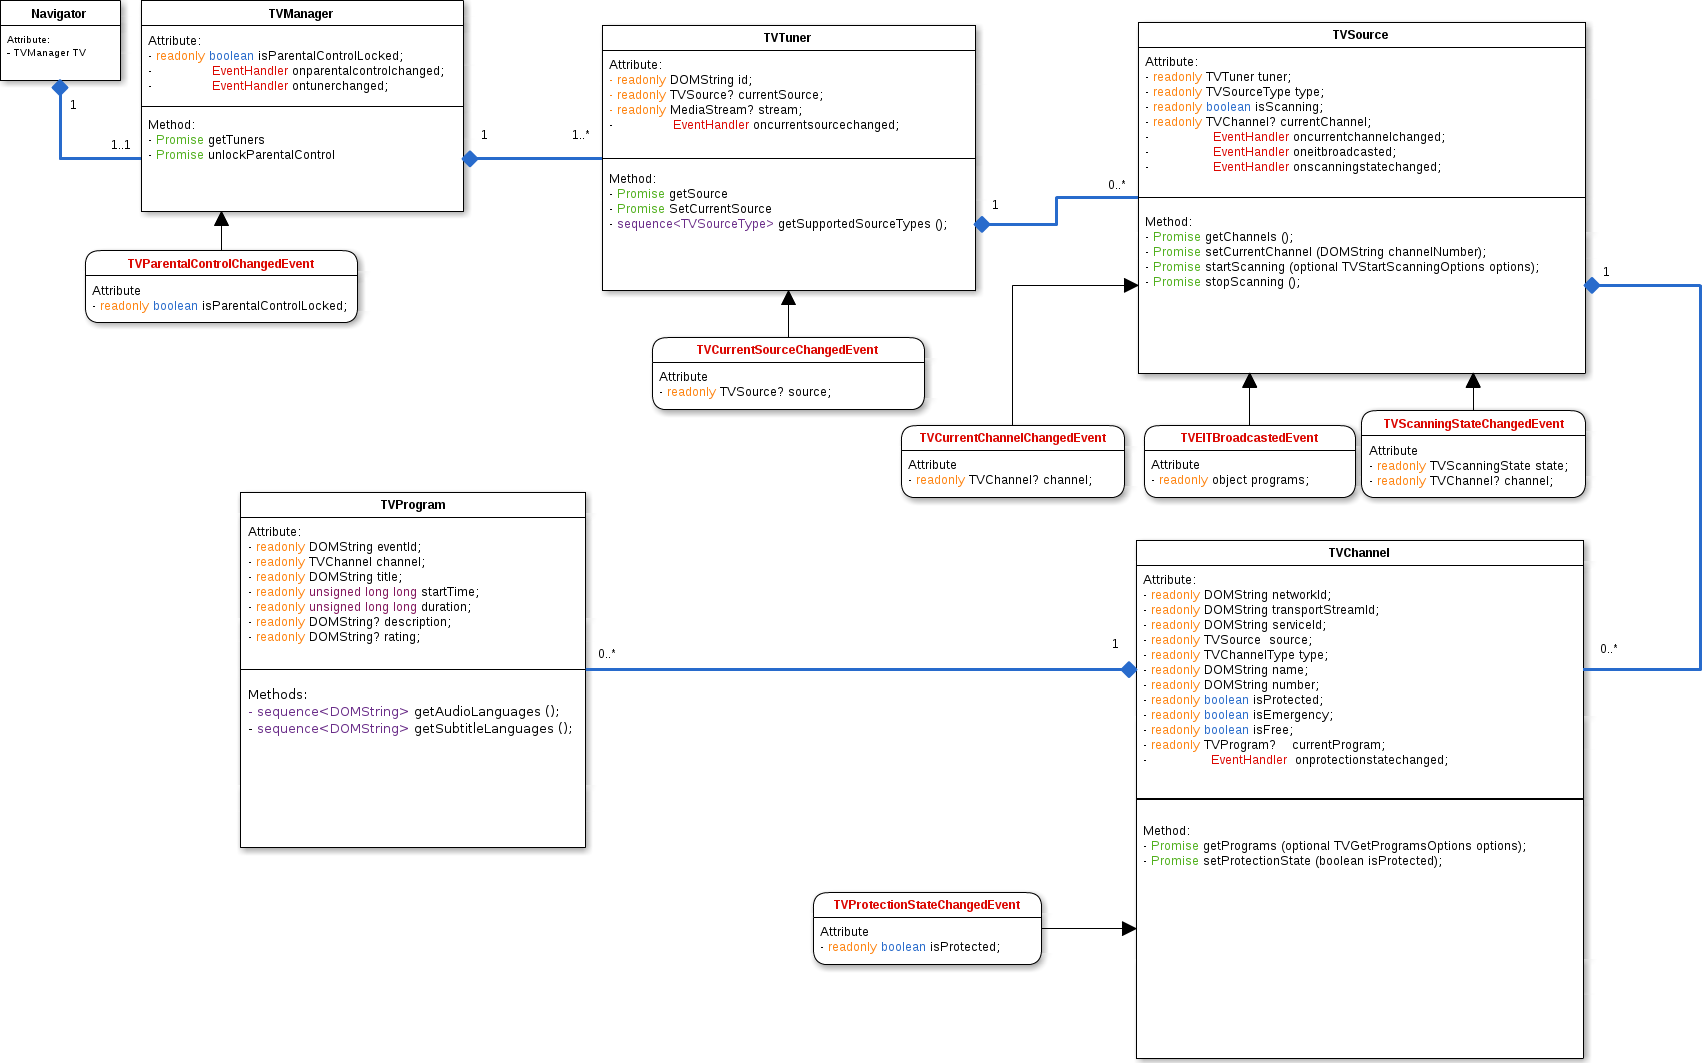
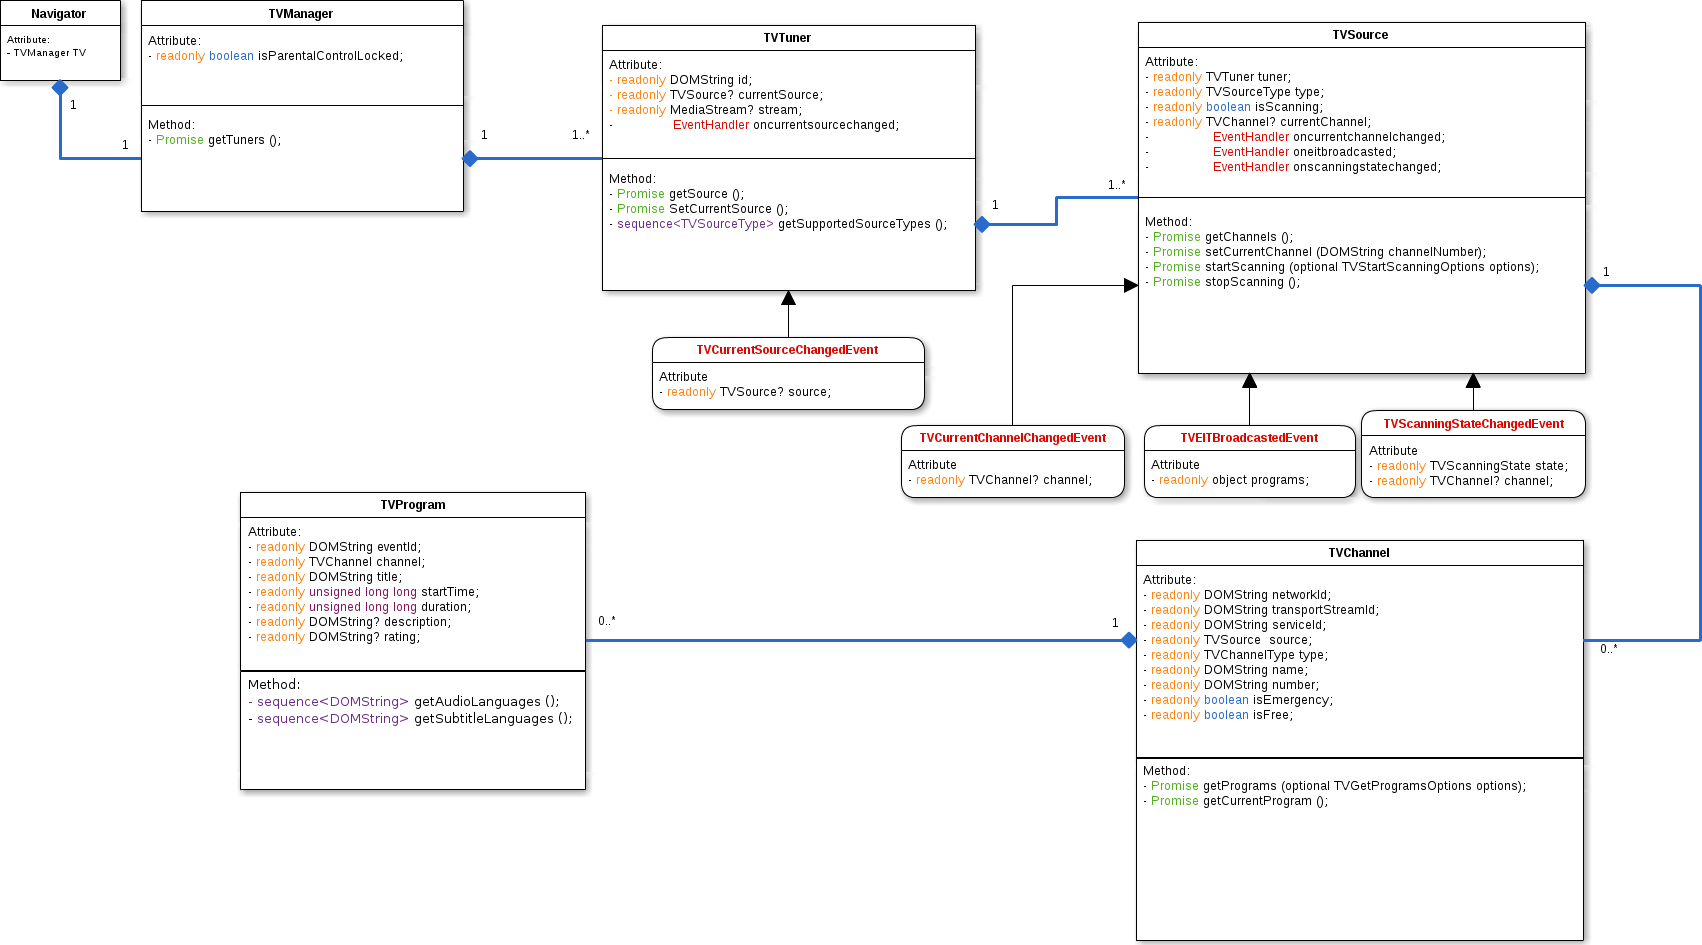
Temporarily move parental control and channel protection out from current release.

diff --git a/index.html b/index.html
@@ -283,14 +283,6 @@ Style guide to contributors:
               // currently configured TV source of the TV tuner.
               currentSource.getChannels().then(function onsuccess(channels) {
                 curChannelsOfTuners[tunerId] = channels;
-
-                channels.forEach(function setEventHandler(channel) {
-                  // Set the 'onprotectionstatechanged' event handler.
-                  channel.onprotectionstatechanged = function onprotectionstatechanged(event) {
-                    alert("The current protection state of TV channel: " + channel.name +
-                          " is configured to: " + event.isProtected);
-                  };
-                });
               }, function onerror(error) {
                 alert(error);
               });
@@ -507,71 +499,6 @@ Style guide to contributors:
           });
         </pre>
 
-        <p>
-          The following example shows how to unlock the TV parental control.
-        </p>
-
-        <pre class="example highlight">
-          // Retrieve all the currently available TV tuners.
-          navigator.tv.getTuners().then(function onsuccess(tuners) {
-            if (tuners.length == 0) {
-              return;
-            }
-
-            // Just use the first TV tuner.
-            var tuner = tuners[0];
-            var currentSource = tuner.currentSource;
-
-            if (!currentSource) {
-              return;
-            }
-
-            // This event handler will be triggered when the TV channel is tuned.
-            currentSource.oncurrentchannelchanged = function oncurrentchannelchanged(event) {
-              var changedCurrentChannel = event.channel;
-
-              if (navigator.tv.isParentalControlLocked &&
-                  changedCurrentChannel.isProtected) {
-                // If the TV parental control is locked and the currently tuned
-                // TV channel is protected, the |tuner.stream|'s media tracks
-                // will be disabled (i.e. black screen). The UA can then pop up
-                // a prompt to ask the user to enter the password to unlock it.
-                alert("Parental control is locked. Please enter the password.");
-
-                // Unlock the TV parental control which will be applied system-wisely.
-                navigator.tv.unlockParentalControl().then(function onsuccess() {
-                  alert("Parental control is unlocked until the next reboot.");
-                }, function onerror(error) {
-                  alert(error);
-                });
-              }
-            };
-
-            // Retrieve all the currently available TV channels in the currently
-            // configured TV source of the TV tuner.
-            currentSource.getChannels().then(function onsuccess(channels) {
-              if (channels.length == 0) {
-                return;
-              }
-
-              // Just use the first TV channel.
-              var channel = channels[0];
-              var channelNumber = channel.number;
-
-              // Tune the currently streamed TV channel based on the TV channel
-              // number.
-              currentSource.setCurrentChannel(channelNumber).then(function onsuccess() {
-                alert("Succeeded to tune the currently streamed TV channel.");
-              }, function onerror(error) {
-                alert(error);
-              });
-            }, function onerror(error) {
-              alert(error);
-            });
-          }, function onerror(error) {
-            alert(error);
-          });
-        </pre>
       </section>
     </section>
     
@@ -657,34 +584,6 @@ Style guide to contributors:
             that will be used to notify the caller about the result of the
             operation, which is an array of <a>TVTuner</a> elements.
           </dd>
-
-        <dt>Promise unlockParentalControl ()</dt>
-          <dd>
-            This method makes a request to unlock the TV parental control by
-            popping up a prompt to ask the user to input the correct password.
-            Once the TV parental control is unlocked, it won't be locked until
-            the next reboot. It returns a new <code>Promise</code> that will be
-            used to notify the caller about the result of the operation.
-          </dd>
-
-        <dt>readonly attribute boolean isParentalControlLocked</dt>
-          <dd>
-            MUST return the current lock state of the TV parental control, which
-            is system-widely applied to the TV device (i.e., once the parental
-            control is unlocked, all the protected TV channels/programs will be
-            unlocked until the next reboot).
-          </dd>
-
-        <dt class="no-docs">
-          attribute EventHandler onparentalcontrolchanged
-        </dt>
-          <dd>
-            Handles the <code>onparentalcontrolchanged</code> event of type
-            <a>TVParentalControlChangedEvent</a>, fired when the method
-            <a><code>unlockParentalControl</code></a> is invoked to unlock the
-            TV parental control.
-          </dd>
-
       </dl>
 
       <section>
@@ -727,71 +626,6 @@ Style guide to contributors:
           </ol>
         </ol>
 
-        <p>
-          The <dfn><code>unlockParentalControl</code></dfn> method when invoked
-          MUST run the following steps:
-        </p>
-        <ol>
-          <li>
-            Let <var>promise</var> be a new <code>Promise</code> object and
-            <var>resolver</var> be its associated <code>resolver</code>.
-          </li>
-          <li>
-            Return <var>promise</var> to the caller.
-          </li>
-          <li>
-            Make a request to the TV device to unlock the TV parental control.
-            The <a class="internalDFN" href="#dfn-user-agent">user agent</a> has
-            to pop up a prompt to ask the user to input the password to unlock
-            the TV parental control.
-          </li>
-          <li>
-            If an <var>error</var> occurs invoke <em>resolver</em>'s <a
-            class="internalDFN" href="#dfn-reject-algorithm">reject algorithm</a>
-            with <em>error</em> as the <code>value</code> argument.
-          </li>
-          <li>
-            When the request has been successfully completed:
-          </li>
-          <ol>
-            <li>
-              Invoke <em>resolver</em>'s <a
-              class="internalDFN" href="#dfn-fulfill-algorithm"> fulfill algorithm</a>
-              without assigning a value to the <code>value</code> argument.
-            </li>
-          </ol>
-        </ol>
-
-      </section>
-
-      <section>
-        <h2>Event handlers</h2>
-        <p>The following are the <a class="internalDFN"
-        href="#dfn-eventhandler">event handlers</a> (and their corresponding <a
-        class="internalDFN" href="#dfn-eventtypes">event types</a>) that MUST be
-        supported as attributes by the <a>TVManager</a> object.
-
-        <table class="simple">
-          <thead>
-            <tr>
-              <th>Event handler</th>
-              <th>Event name</th>
-              <th>Event type</th>
-              <th>Short description</th>
-            </tr>
-          </thead>
-          <tbody>
-            <tr>
-              <td><strong><code>onparentalcontrolchanged</code></strong></td>
-              <td><code><dfn id="dfn-change-event">parentalcontrolchanged</dfn></code></td>
-              <td><a><code>TVParentalControlChangedEvent</code></a></td>
-              <td>
-                Handles the information of the changed state of the TV parental
-                control.
-              </td>
-            </tr>
-          </tbody>
-        </table>
       </section>
 
     </section>
@@ -1324,19 +1158,13 @@ Style guide to contributors:
             </dl>
           </dd>
 
-        <dt>Promise setProtectionState ()</dt>
+        <dt>Promise getCurrentProgram ()</dt>
           <dd>
-            This method makes a request to configure the current protection
-            state of the TV channel by the <code>isProtected</code> parameter.
-            It returns a new <code>Promise</code> that will be used to notify
-            the caller about the result of the operation.
-            <dl class='parameters'>
-              <dt>boolean isProtected</dt>
-                <dd>
-                  Specifies the new protection state for configuring the current
-                  protection state of the TV channel.
-                </dd>
-            </dl>
+            This method makes a request to retrieve the current TV program
+            available in the TV channel. It returns a new <code>Promise</code>
+            that will be used to notify the caller about the result of the
+            operation, which is a <a>TVProgram</a> element that belongs to the
+            TV channel.
           </dd>
 
         <dt>readonly attribute DOMString networkId</dt>
@@ -1386,13 +1214,6 @@ Style guide to contributors:
             <code>"12-2"</code>... etc.
           </dd>
 
-        <dt>readonly attribute boolean isProtected</dt>
-          <dd>
-            MUST return the current protection state of the TV channel, which
-            decides whether or not the TV channel is protected from being
-            watched by the children.
-          </dd>
-
         <dt>readonly attribute boolean isEmergency</dt>
           <dd>
             MUST indicate whether the TV channel is for the emergency purpose.
@@ -1401,23 +1222,6 @@ Style guide to contributors:
         <dt>readonly attribute boolean isFree</dt>
           <dd>
             MUST indicate whether the TV channel is free to watch.
-          </dd>
-
-        <dt>readonly attribute TVProgram? currentProgram</dt>
-          <dd>
-            MUST return the TV program that is currently broadcasted by the TV
-            channel. MUST return <em>null</em> if the TV tuner is not streaming
-            any data.
-          </dd>
-
-        <dt class="no-docs">
-          attribute EventHandler onprotectionstatechanged
-        </dt>
-          <dd>
-            Handles the <code>onprotectionstatechanged</code> event of type
-            <a>TVProtectionStateChangedEvent</a>, fired when the method
-            <a><code>setProtectionState</code></a> is invoked to configure the
-            current protection state of the TV channel.
           </dd>
 
       </dl>
@@ -1464,7 +1268,7 @@ Style guide to contributors:
         </ol>
 
         <p>
-          The <dfn><code>setProtectionState</code></dfn> method when invoked
+          The <dfn><code>getCurrentProgram</code></dfn> method when invoked
           MUST run the following steps:
         </p>
         <ol>
@@ -1476,9 +1280,8 @@ Style guide to contributors:
             Return <var>promise</var> to the caller.
           </li>
           <li>
-            Make a request to the TV channel to configure the current protection
-            state of the TV channel according to the <code>isProtected</code>
-            parameter.
+            Make a request to the TV channel to retrieve all the current TV
+            program available in the TV channel.
           </li>
           <li>
             If an <var>error</var> occurs invoke <em>resolver</em>'s <a
@@ -1490,45 +1293,16 @@ Style guide to contributors:
           </li>
           <ol>
             <li>
+              Let <var>program</var> be the retrieved <a>TVProgram</a> element.
+            </li>
+            <li>
               Invoke <em>resolver</em>'s <a
               class="internalDFN" href="#dfn-fulfill-algorithm"> fulfill algorithm</a>
-              without assigning a value to the <code>value</code> argument.
+              with <em>program</em> as the <code>value</code> argument.
             </li>
           </ol>
         </ol>
 
-      </section>
-
-      <section>
-        <h2>Event handlers</h2>
-        <p>The following are the <a class="internalDFN"
-        href="#dfn-eventhandler">event handlers</a> (and their corresponding <a
-        class="internalDFN" href="#dfn-eventtypes">event types</a>) that MUST be
-        supported as attributes by the <a>TVChannel</a> object.
-
-        <table class="simple">
-          <thead>
-            <tr>
-              <th>Event handler</th>
-              <th>Event name</th>
-              <th>Event type</th>
-              <th>Short description</th>
-            </tr>
-          </thead>
-          <tbody>
-            <tr>
-              <td><strong><code>onprotectionstatechanged</code></strong></td>
-              <td><code><dfn id="dfn-change-event">protectionstatechanged</dfn></code></td>
-              <td><a><code>TVProtectionStateChangedEvent</code></a></td>
-              <td>
-                Handles the information of the current protection state of the
-                TV channel that is configured by the method
-                <a><code>setProtectionState</code></a>.
-              </td>
-            </tr>
-
-          </tbody>
-        </table>
       </section>
 
     </section>
@@ -1645,21 +1419,6 @@ Style guide to contributors:
       </dl>
     </section>
 
-<!-- - - - - - - - - - - - Interface TVParentalControlChangedEvent - - -->
-    <section>
-      <h2><a>TVParentalControlChangedEvent</a> Interface</h2>
-      <p>
-        The <a>TVParentalControlChangedEvent</a> interface represents the
-        event related to the state change of the TV parental control.
-      </p>
-      <dl title="interface TVParentalControlChangedEvent : Event" class="idl">
-        <dt>readonly attribute boolean isParentalControlLocked</dt>
-          <dd>
-            MUST return the changed lock state of the TV parental control.
-          </dd>
-      </dl>
-    </section>
-
 <!-- - - - - - - - Interface TVCurrentSourceChangedEvent - - - - - - - - - -->
     <section>
       <h2><a>TVCurrentSourceChangedEvent</a> Interface</h2>
@@ -1735,23 +1494,6 @@ Style guide to contributors:
             MUST return the TV channel that is currently streamed by the TV
             tuner. MUST return <em>null</em> if the TV tuner is not streaming
             any data.
-          </dd>
-      </dl>
-    </section>
-
-<!-- - - - - - - - Interface TVProtectionStateChangedEvent - - - - - - - - - -->
-    <section>
-      <h2><a>TVProtectionStateChangedEvent</a> Interface</h2>
-      <p>
-        The <a>TVProtectionStateChangedEvent</a> interface represents the event
-        related to the current protection state of the TV channel that is
-        configured by the method <a><code>setProtectionState</code></a>.
-      </p>
-      <dl title="interface TVProtectionStateChangedEvent : Event" class="idl">
-        <dt>readonly attribute boolean isProtected</dt>
-          <dd>
-            MUST return the current protection state that is configured by the
-            TV channel.
           </dd>
       </dl>
     </section>
